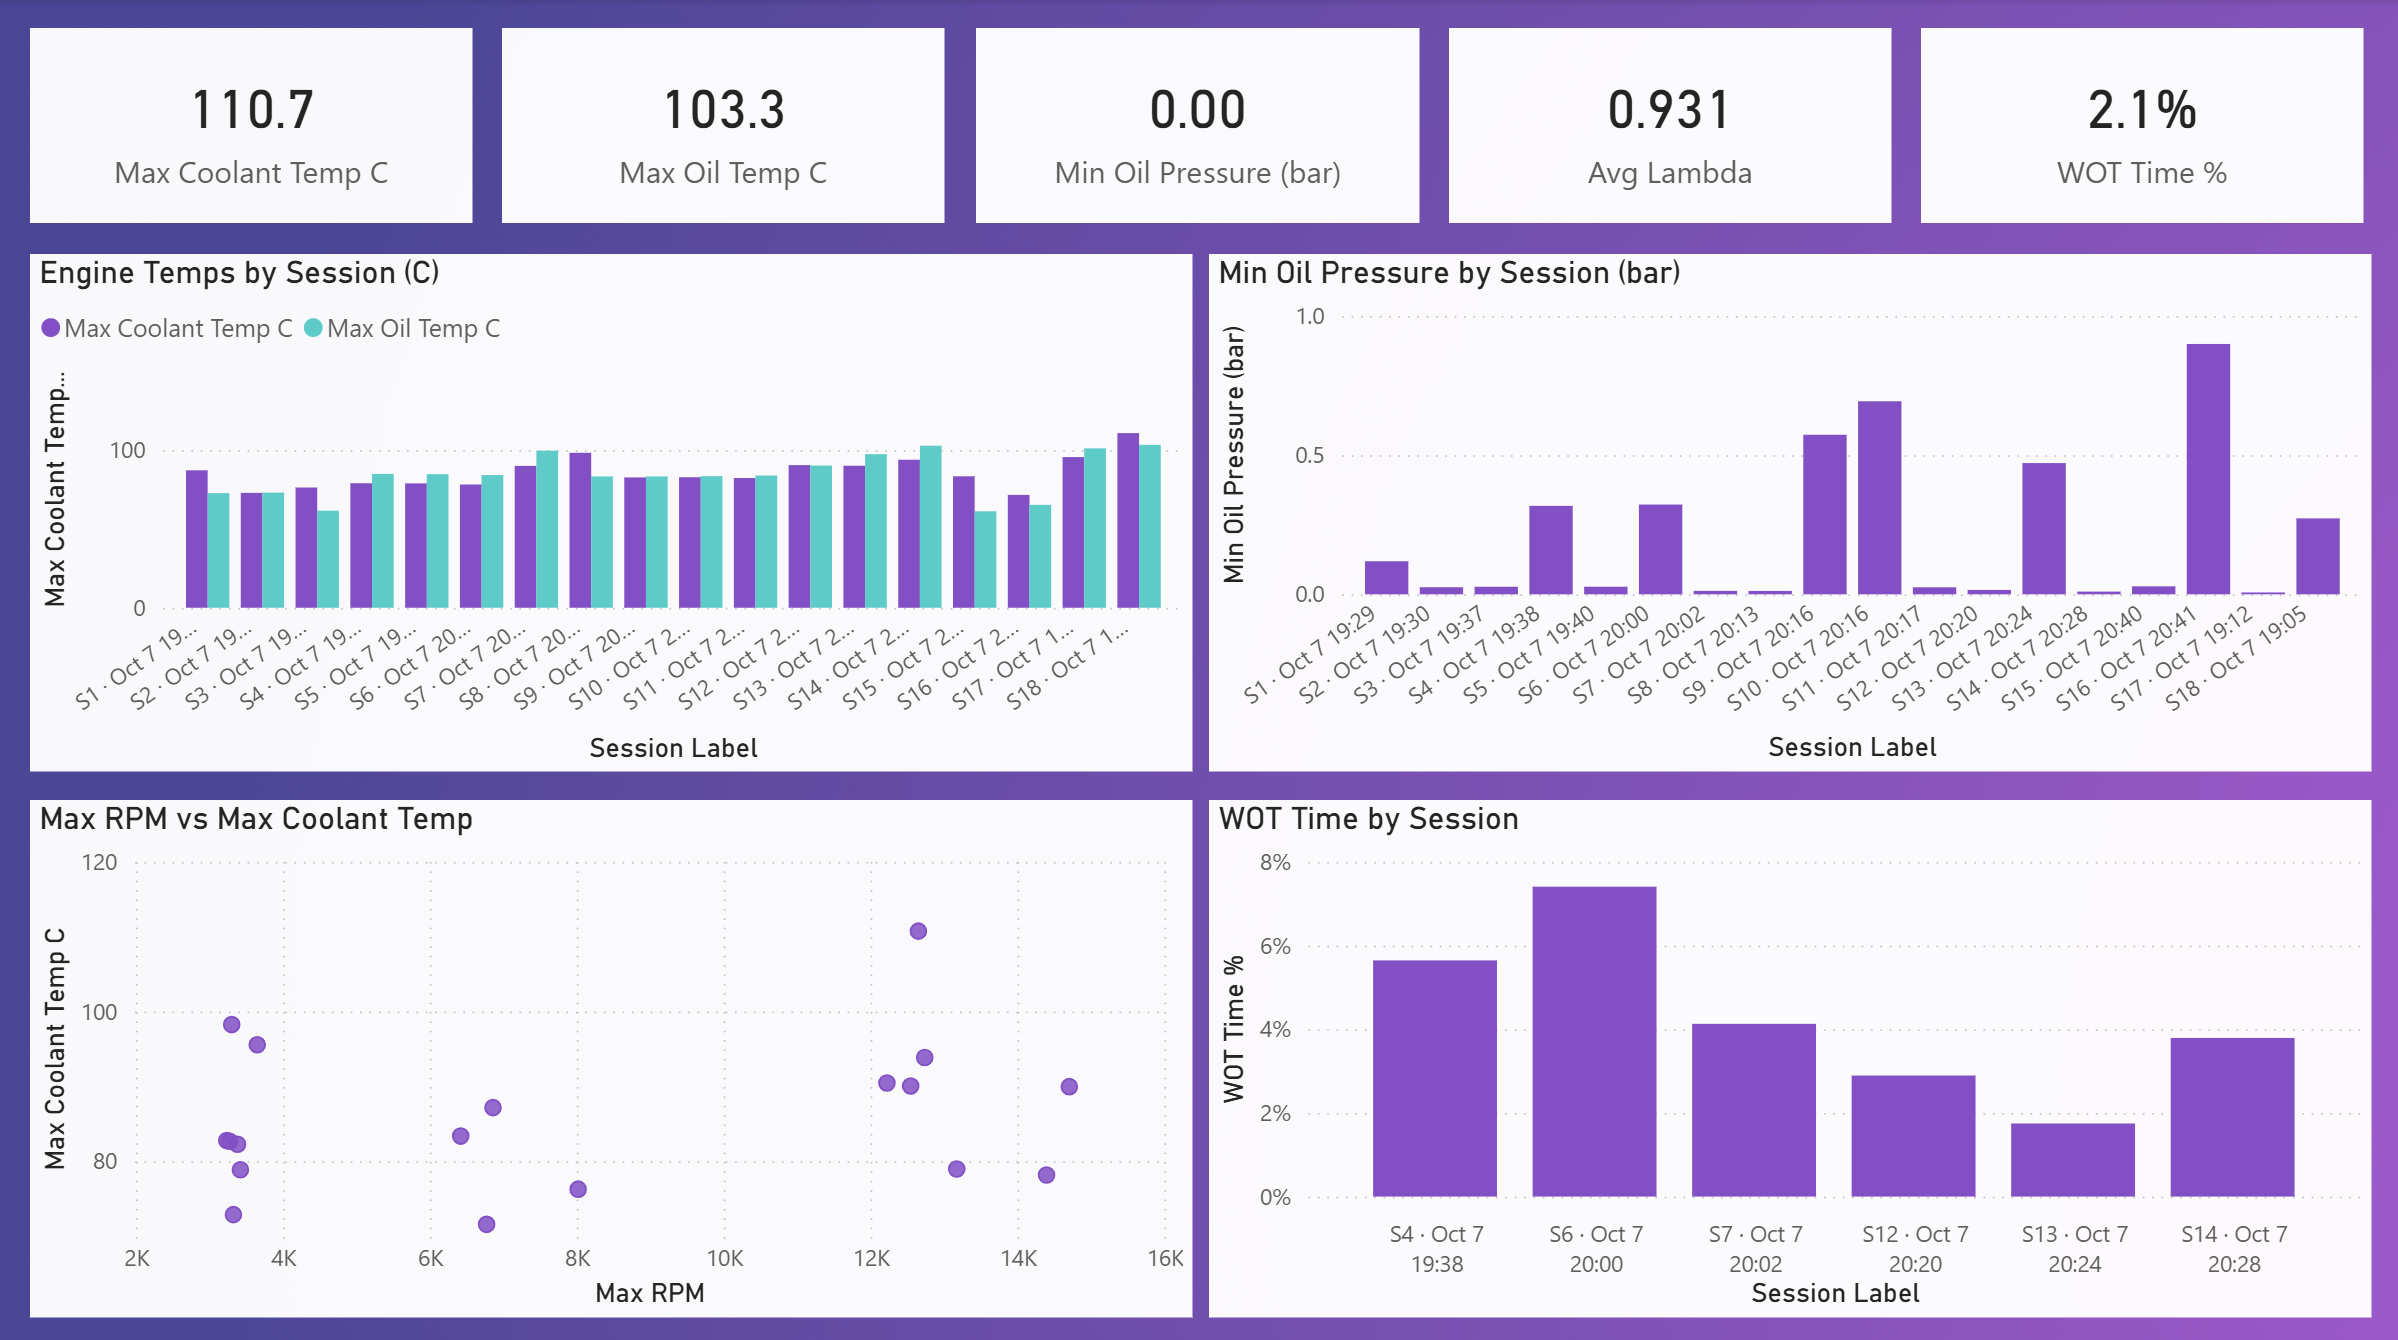
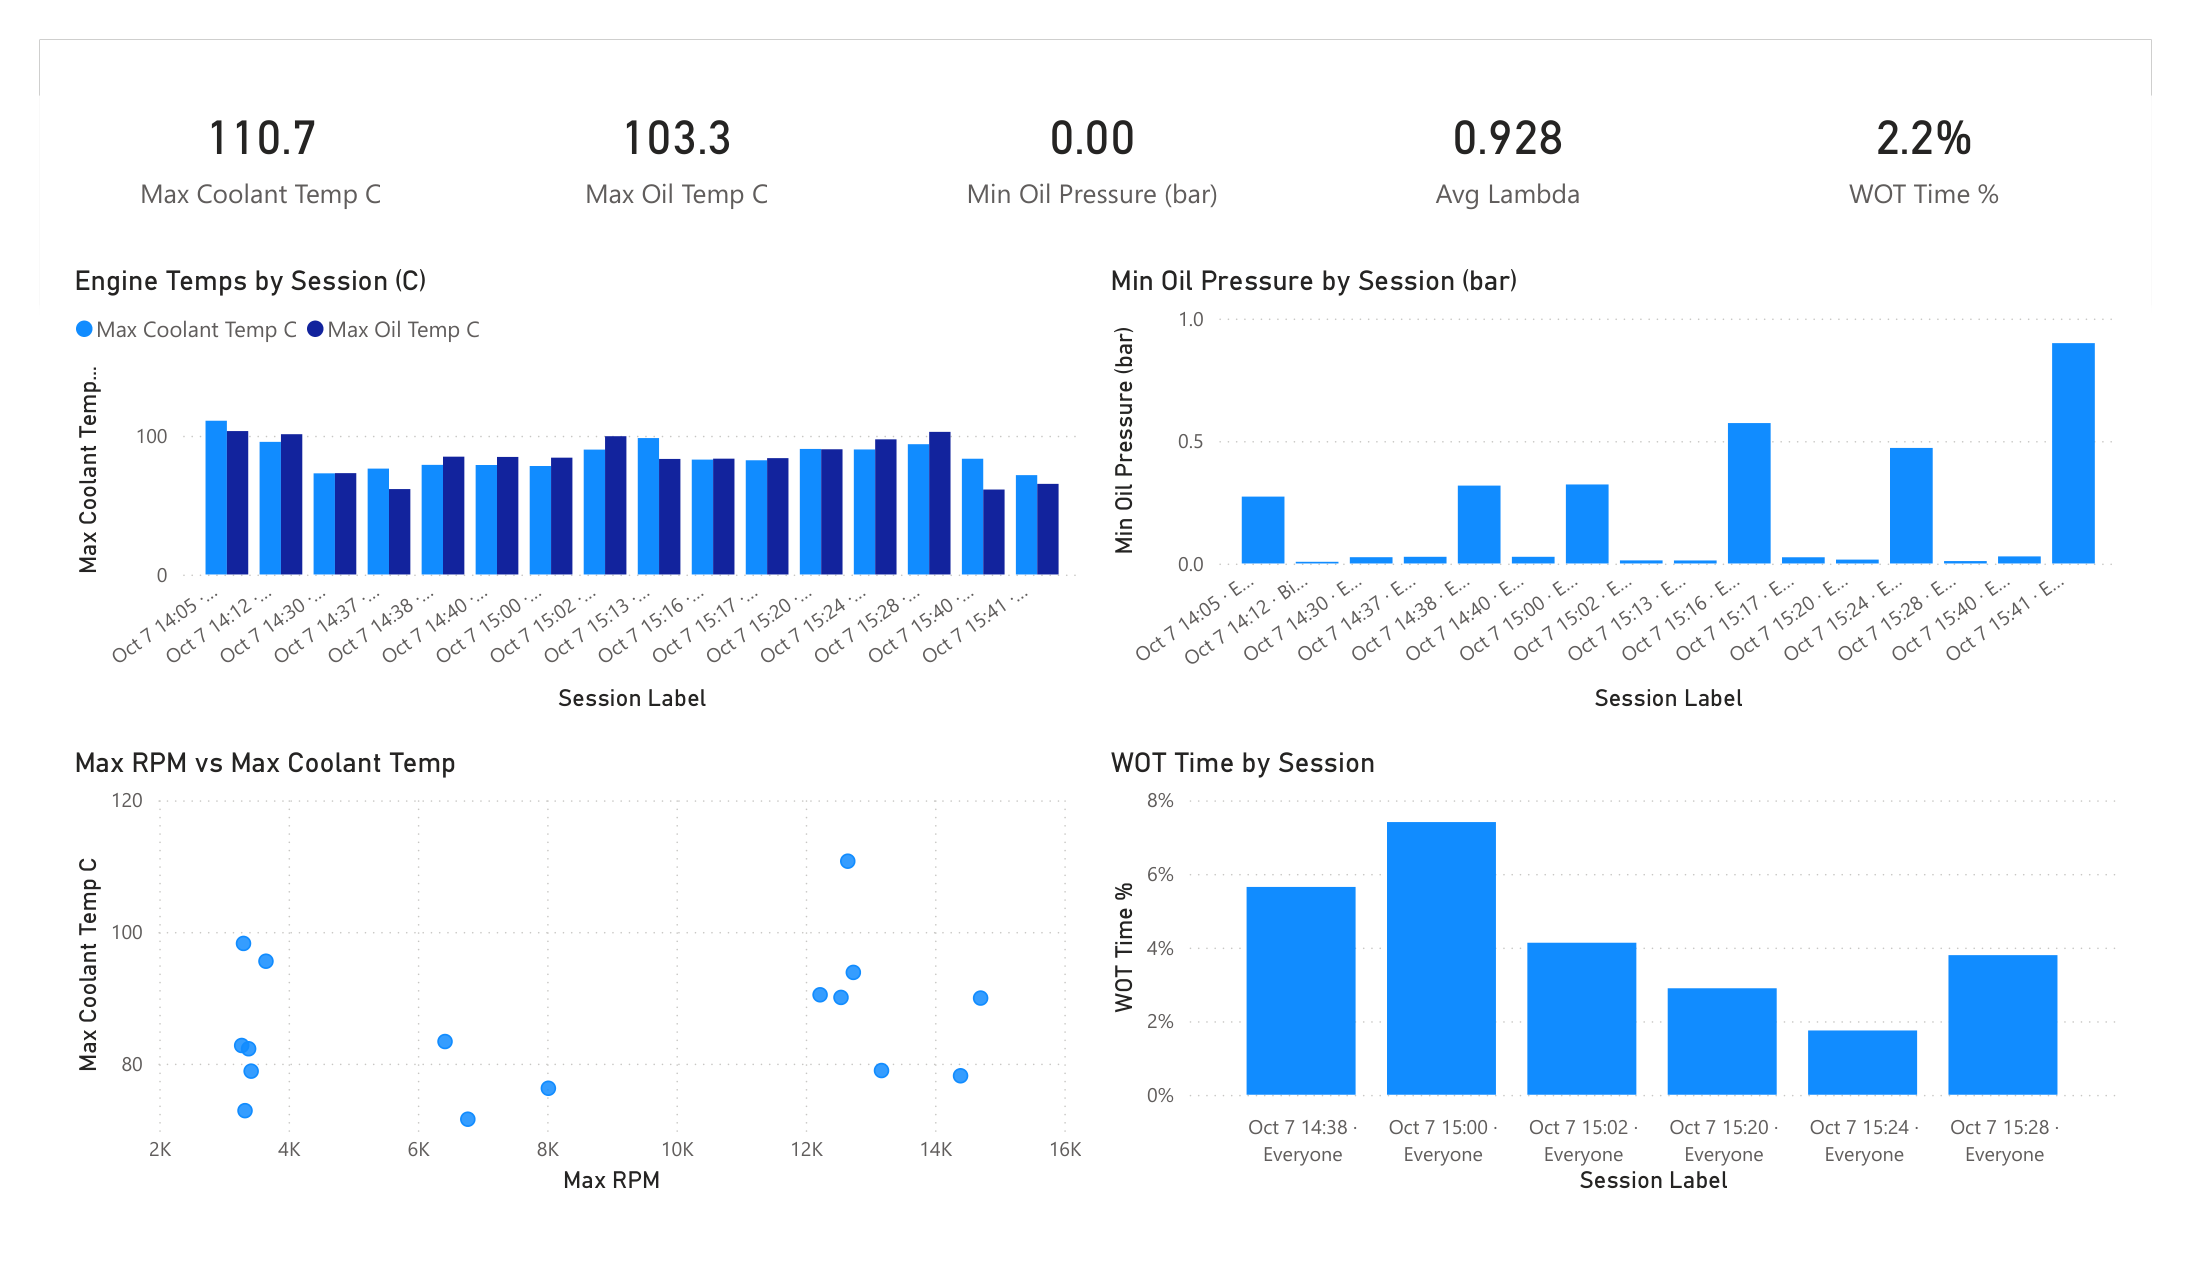
docs: add all seven dashboard screenshots, swap hero to ev drive day

diff --git a/tests/test_docs.py b/tests/test_docs.py
@@ -49,7 +49,11 @@ def test_readme_hero_image_exists():
     assert (config.ROOT / heroes[0]).is_file()
 
 
-@pytest.mark.parametrize("slug", ["season-overview", "engine-health", "findings"])
+@pytest.mark.parametrize(
+    "slug",
+    ["season-overview", "session-deep-dive", "engine-health", "findings",
+     "ev-drive-day", "ev-thermal", "ev-findings"],
+)
 def test_screenshot_is_referenced_by_the_reports_readme(slug):
     text = (config.ROOT / "reports" / "README.md").read_text(encoding="utf-8")
     assert f"({slug}.png)" in text
@@ -59,3 +63,9 @@ def test_report_pages_cover_both_platforms():
     names = page_names()
     assert len(names) == 7
     assert len([n for n in names if n.startswith("EV ")]) == 3
+
+
+def test_every_report_page_has_a_screenshot():
+    slugs = {p.stem for p in (config.ROOT / "reports").glob("*.png")}
+    expected = {name.lower().replace(" ", "-") for name in page_names()}
+    assert expected <= slugs, f"pages without a screenshot: {sorted(expected - slugs)}"

diff --git a/reports/README.md b/reports/README.md
@@ -19,9 +19,17 @@ one event. The figures below are reproducible from the model's measures.
 This is the shape of the evening: 18 sessions, 33.7 min of total logged time, a
 15K max RPM, and 1.86 g peak lateral. The per-session bars show how uneven the
 runs were. Eight are 10–26 s aborted starts and restarts (note the three inside
-two minutes around 20:16), while only a handful are full runs. Channel health
+two minutes around 15:16), while only a handful are full runs. Channel health
 sits flat at ~39% for every session (see Findings for why), and peak
 lateral/braking G track together on the real runs, which is the balance you want.
+
+### Session Deep-Dive
+
+![Session Deep-Dive](session-deep-dive.png)
+
+Session and sensor slicers driving a 1 Hz trace with a min/max envelope, plus a
+channel summary table. This is the page for asking "what did channel X do in
+session Y", and it is the only 2023 page that is not a fixed set of measures.
 
 ### Engine Health
 
@@ -75,8 +83,6 @@ used here, which is a good next refinement.
 21 unique sessions across four drivers (Emiliano 7, Tristan 7, Ryan 4, Yianni 2,
 plus one unattributed shakedown), 19.8 min logged at 10 Hz. Five files are the
 same run filed under two drivers; `ingestion_source` keeps both attributions.
-Screenshots for the three EV pages are pending an export from Power BI Desktop.
-
 Hardware identified from the channel names: a **DTI HV-500 family inverter**
 (the signal names `Actual_FOC_id`, `Actual_FOC_iq`, `Actual_Brake` are verbatim
 from DTI's published CAN map, and its firmware is VESC-derived) driving a
@@ -89,7 +95,10 @@ liquid-cooled motor, with an **Orion BMS 2** on the accumulator.
    99.3%. It rises monotonically 32 to 41 across the day while the car
    discharges 1.36 kWh. It is a pack temperature in Celsius, and the BMS SOC
    message is mis-mapped in the logger config. **Every SOC number in this drop
-   is unusable**, including the "SOC Drop %" card.
+   is unusable.** The `SOC Drop %` measure is now hidden and renamed
+   `SOC Drop % (INVALID)`, and the EV Drive Day card that used it has been
+   replaced with `Median Flowrate`. The screenshot below predates that swap and
+   still shows the old card.
 2. **`Fault Code` is mostly not a fault.** It takes three values: 0, 2 and 4.
    Code 2 is DTI "Undervoltage", which is what the inverter reports when it is
    awake on low voltage and the tractive system is not energized. Conditioning
@@ -112,6 +121,8 @@ TSB Temp 64, Stop Logging 128), verified on **11,913 of 11,913 rows**. The
 value 160 is Logging + Stop Logging, the idle paddock state, not an alarm.
 
 ### EV Drive Day
+
+![EV Drive Day](ev-drive-day.png)
 
 **The headline track time is inflated.** Of 19.8 min logged, the tractive system
 is live for 15.6 min and the motor actually turns for **11.7 min (59%)**. Four
@@ -162,6 +173,8 @@ whether this matters.
 
 ### EV Thermal
 
+![EV Thermal](ev-thermal.png)
+
 Absolute temperatures are comfortable. Motor peaks **61.9 C** against Emrax's
 120 C winding limit and AMK's 125 C derate onset; controller peaks **68.9 C**;
 pack peaks **41 C** against the hard **60 C** ceiling in FSAE **EV.7.5.2**.
@@ -197,6 +210,8 @@ get when almost nothing is flowing. Delta-T alone cannot diagnose a loop, since
 it equals heat load divided by mass flow.
 
 ### EV Findings
+
+![EV Findings](ev-findings.png)
 
 1. **Peak temperature is set by heat soak, not by driving.** Controlling for run
    duration, the correlation between a run's starting motor temperature and its

diff --git a/README.md b/README.md
@@ -8,7 +8,7 @@
 [![Power BI](https://img.shields.io/badge/Power%20BI-dashboard-f2c811.svg)](https://powerbi.microsoft.com)
 [![License: MIT](https://img.shields.io/badge/license-MIT-green.svg)](LICENSE)
 
-![Season Overview](reports/season-overview.png)
+![EV Drive Day](reports/ev-drive-day.png)
 
 ## What it is
 
